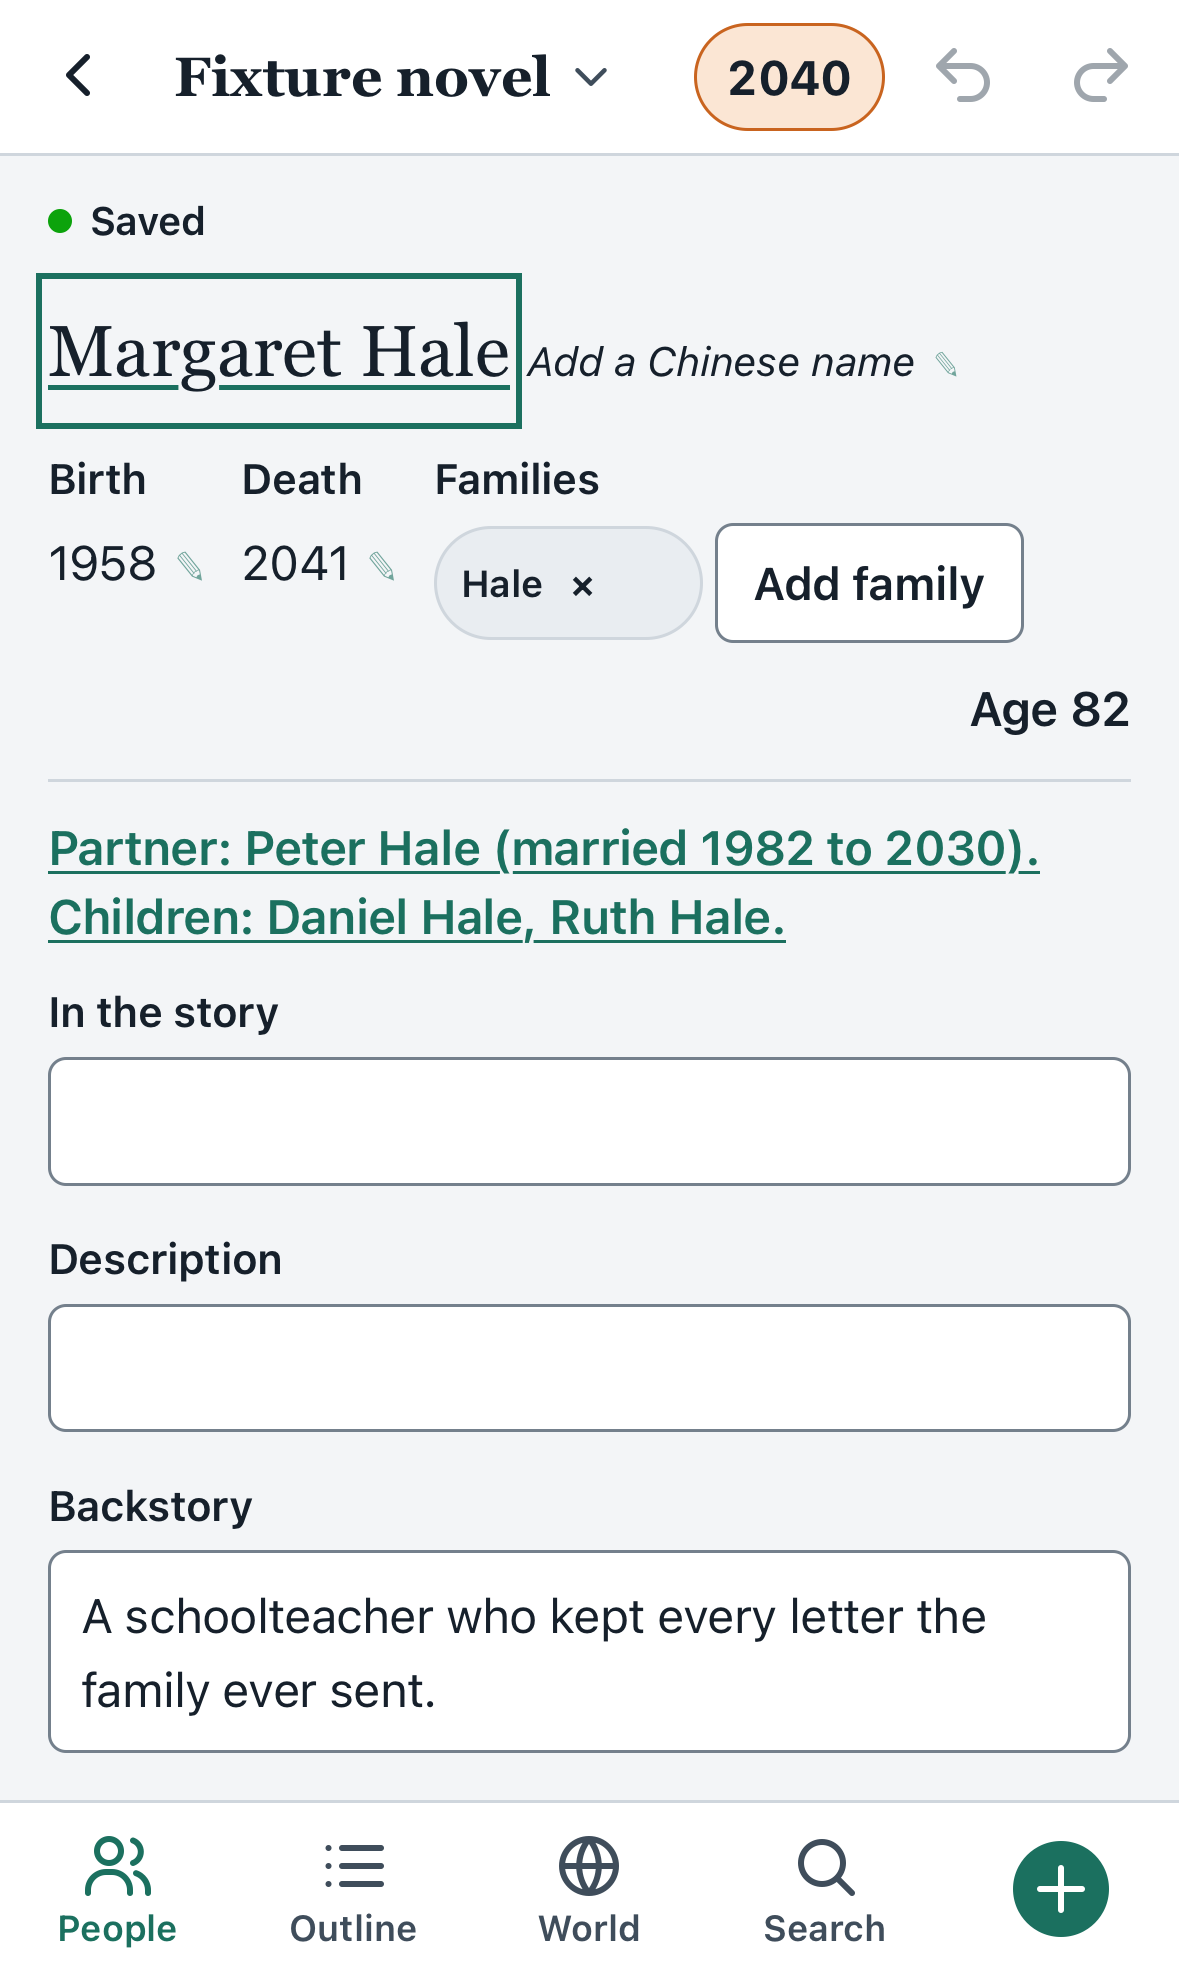
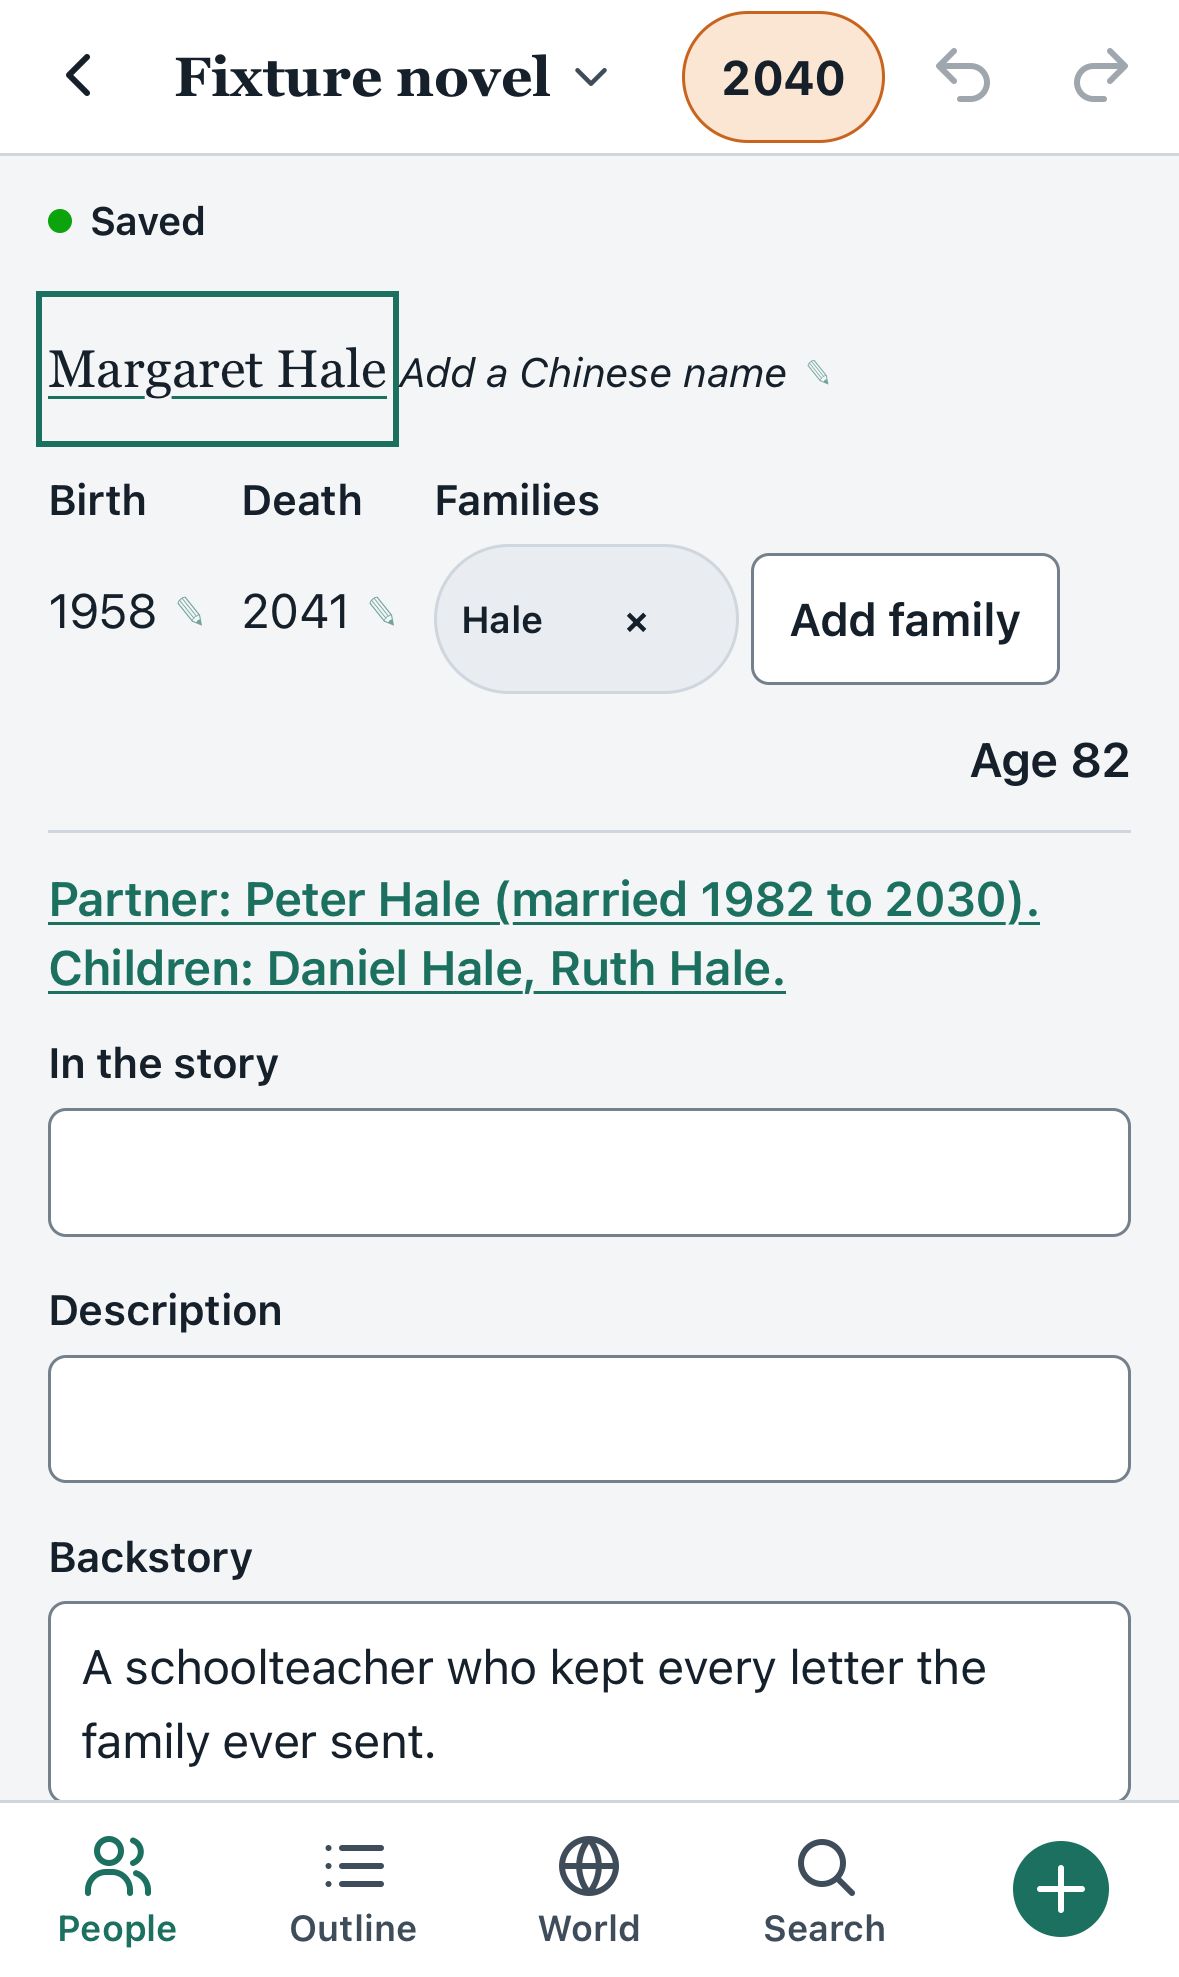
A58 U1 U2: a radio sits beside its label, the strand year's pill stays small around its 44px target; U1 and U2 screens re-saved light and dark

diff --git a/src/renderer/src/workspace/sessions/phone.css b/src/renderer/src/workspace/sessions/phone.css
@@ -31,3 +31,7 @@
 :root[data-phone] .ph-frame [data-testid='relevant-view'] > .row > .chip.time {
   align-self: flex-start;
 }
+/* The strand's year edits on a tap: the pill stays small, its target reaches past it. */
+:root[data-phone] .ph-frame [data-testid='relevant-view'] .rel-head-year .editable-text {
+  margin-block: -10px;
+}

diff --git a/src/renderer/src/workspace/phone/phone.css b/src/renderer/src/workspace/phone/phone.css
@@ -66,6 +66,7 @@
 :root[data-phone] .ph-frame label:has(> input[type='radio']) {
   min-height: var(--ph-target);
   display: inline-flex;
+  flex-direction: row;
   align-items: center;
   gap: 8px;
 }
